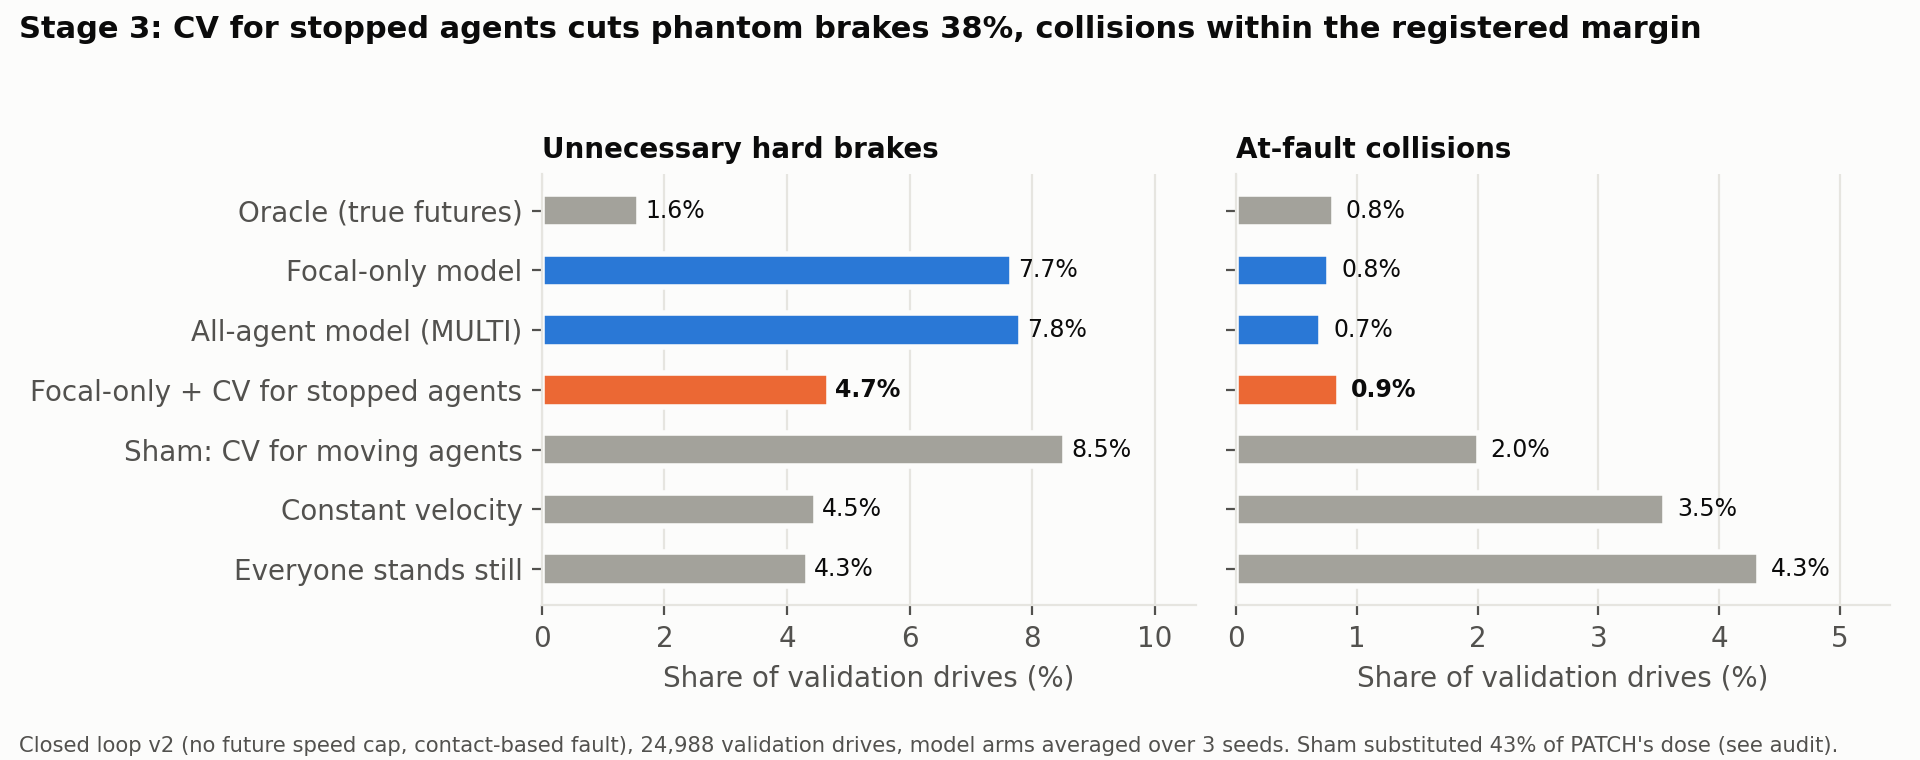
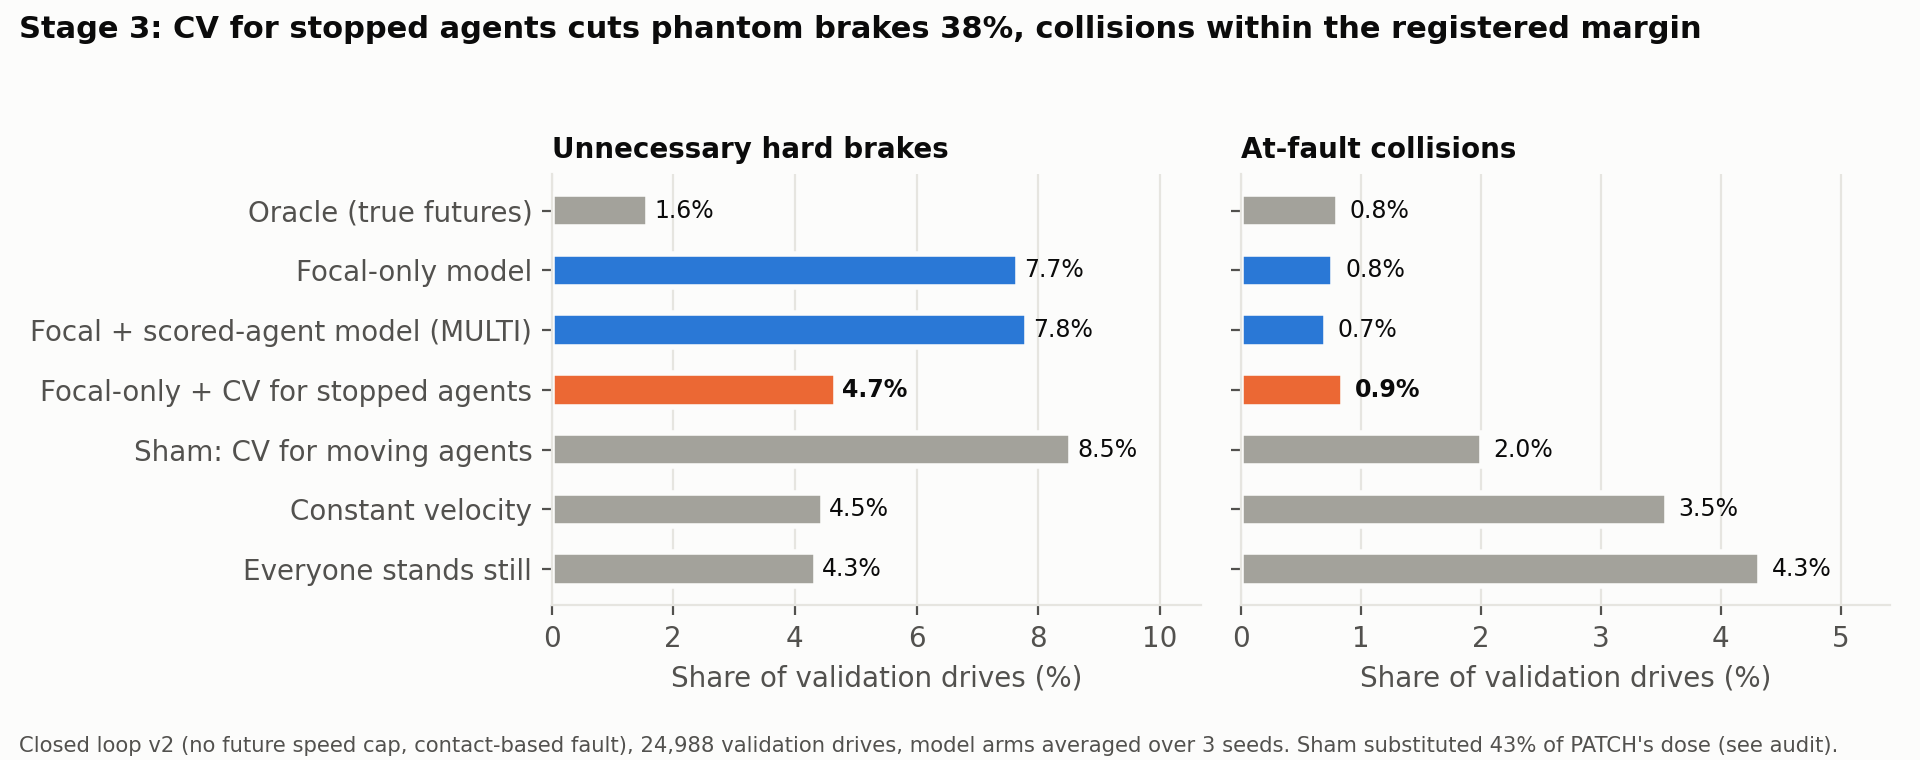
README: planner-agent comparison up front, narrower causal claims, Stage 4 status
Constant velocity beats the learned model on miss rate for planner-relevant
agents (0.281 vs 0.424) while the model has lower mean error; causal wording
narrowed; Stage 3 described as a sequential follow-up on the same validation
scenes; MULTI renamed focal + scored-agent model; AUROC claim softened;
conditional-CI limitation; Reproduce covers releases v1.0 and v1.1 and all
stages.

diff --git a/scripts/plot_results.py b/scripts/plot_results.py
@@ -222,7 +222,7 @@ def fig_stage3(stage3: str, out: str) -> None:
     import json
 
     r = json.load(open(f"{stage3}/results.json"))["closedloop"]["rates"]
-    arms = [("oracle", "Oracle (true futures)"), ("ALL", "Focal-only model"), ("MULTI", "All-agent model (MULTI)"),
+    arms = [("oracle", "Oracle (true futures)"), ("ALL", "Focal-only model"), ("MULTI", "Focal + scored-agent model (MULTI)"),
             ("PATCH", "Focal-only + CV for stopped agents"), ("SHAM", "Sham: CV for moving agents"),
             ("cv", "Constant velocity"), ("static", "Everyone stands still")]  # fmt: skip
     fig, axes = plt.subplots(1, 2, figsize=(9.6, 3.8), sharey=True)

diff --git a/README.md b/README.md
@@ -6,11 +6,13 @@
 
 A pre-registered study on the [Argoverse 2 motion forecasting dataset](https://www.argoverse.org/av2.html) (this study uses its 224,896 train and validation scenarios from six US cities; the unlabelled test split is not used), with a closed-loop planning test and a TensorRT deployment path.
 
-> **Status: complete.** 22 training runs, both stages, and the deployment gate ran as pre-registered; the post-run audit recomputed every headline number independently ([`scripts/audit_recompute.py`](scripts/audit_recompute.py)). The hypotheses, arms, and kill criteria were committed before any confirmatory model was scored on the validation split. (Throwaway smoke runs used validation data for pipeline debugging before registration; that is disclosed as deviation 1 and no design choice came from it.)
+> **Status: Stages 1 to 3 complete and audited; Stage 4 registered and running.** 22 confirmatory training runs, Stages 1, 2, 3a and 3, and the deployment gate ran as pre-registered, and every headline number is independently recomputable from the released per-row tables ([`scripts/audit_recompute.py`](scripts/audit_recompute.py), [`scripts/audit_stage3.py`](scripts/audit_stage3.py)). Each stage's hypotheses, arms, and kill criteria were committed before that stage's scoring. (Throwaway smoke runs used validation data for pipeline debugging before the Stage 1 registration; that is disclosed as deviation 1 and no design choice came from it.) [Stage 4](docs/preregistration/stage4-replication.md), an independent, dose-matched replication on 8,140 training scenes that no compared model trained on, was registered before any of its scoring; its results will be added here, whatever they show.
 
-**Answers, in one line each.** Accuracy drops in an unseen city, but only by about 5%. The model's own uncertainty still flags the predictions that fail there (with no detectable difference from how it does at home), yet it cannot tell that it is in a new city. In closed loop the extra error shows up as a small rise in planning failures (+4%, mostly extra phantom braking), below the registered +10% bar, so H4 is dead as registered.
+**Answers, in one line each.** Accuracy drops in an unseen city, but only by about 5%. The model's own uncertainty still flags the predictions that fail there (with no detectable difference from how it does at home), yet it shows no useful ability to tell that it is in a new city (mean AUROC 0.505 to 0.518; no equivalence test was run). In closed loop the extra error shows up as a small rise in planning failures (+4%, mostly extra phantom braking), below the registered +10% bar, so H4 is dead as registered.
 
-**The follow-up found the cause of the phantom braking.** The model was trained on Argoverse's *focal* agents, which are chosen for being interesting: a stopped focal agent is almost always about to move. On the parked cars around the self-driving car, it therefore predicts motion that never happens (miss rate 0.52 vs 0.09 for constant velocity), and the planner brakes for it. Giving stopped agents a constant-velocity forecast cuts unnecessary hard brakes by **38%** with collisions inside the registered margin. Retraining on all agents fixes the open-loop error but **not** the braking, because this planner still reacts to the small probability the new model leaves on moving modes.
+**On the agents the planner actually uses, the learned model misses more often than constant velocity.** Across all 304,988 planner-relevant agents (Stage 3a, one snapshot at the t=49 handoff), the all-city model's miss rate is 0.424, against 0.281 for constant velocity and 0.440 for lane following. Its mean errors are lower than constant velocity's (minFDE 2.36 vs 2.62 m, minADE 0.94 vs 1.24 m): it is closer on average but more often more than 2 m off.
+
+**The follow-ups point to stopped agents as the main source of the phantom braking.** The model was trained on Argoverse's *focal* agents, which are chosen for being interesting: a stopped focal agent is almost always about to move. On the parked cars around the self-driving car, it predicts motion that never happens (miss rate 0.52 vs 0.09 for constant velocity), and the planner brakes for it. Giving stopped agents a constant-velocity forecast cuts unnecessary hard brakes by **38%** with collisions inside the registered margin. This strongly implicates how stopped agents' forecasts enter the planner, but it does not isolate focal-selection bias as the only cause: the sham control reached only 43% of that fix's dose, and the fix changes both the forecast trajectory and its probability. Stage 3 is also a sequential follow-up on the same validation scenes, not an independent confirmation. A dose-matched replication on fresh scenes (Stage 4) is registered and in progress. Retraining on focal plus scored agents fixes the open-loop error but **not** the braking; an exploratory check suggests this planner still reacts to the small probability the new model leaves on moving modes.
 
 ![Two Palo Alto validation scenarios: the model trained with Palo Alto vs the model that never saw it](docs/figures/example_scenarios.png)
 
@@ -24,9 +26,9 @@ A pre-registered study on the [Argoverse 2 motion forecasting dataset](https://w
 | **H4** | Does the accuracy loss reach driving outcomes? | Planner failure rate (at-fault collision or unnecessary hard brake) using the unseen-city vs all-city predictor | at least +10% relative |
 | **H5** | Does the model beat a same-data map baseline on the agents the planner uses? | Miss rate vs lane following, planner-relevant agents | at least 10% lower |
 | **H6** | Is there a stopped-agent failure? | Miss rate vs constant velocity: stopped (a) and moving (b) non-focal planner agents | (a) at least +0.15 worse; (b) at least 30% better |
-| **H7** | Does training on all agents fix the phantom braking? | Unnecessary hard brakes, all-agent model vs focal-only, closed loop v2 | at least 30% fewer, collisions within +0.3 pp |
+| **H7** | Does training on focal plus scored agents fix the phantom braking? | Unnecessary hard brakes, focal + scored-agent model (MULTI) vs focal-only, closed loop v2 | at least 30% fewer, collisions within +0.3 pp |
 | **H8** | Does constant velocity for stopped agents fix it? | Same, focal-only model with CV for stopped agents | at least 30% fewer, collisions within +0.3 pp |
-| **H9** | Does the all-agent model fix the open-loop error without hurting focal agents? | Miss rate, stopped non-focal and focal agents | at least 0.15 lower; focal no worse than +0.02 |
+| **H9** | Does the focal + scored-agent model fix the open-loop error without hurting focal agents? | Miss rate, stopped non-focal and focal agents | at least 0.15 lower; focal no worse than +0.02 |
 
 Pre-registrations, including every deviation and the reason for it:
 [Stage 1](docs/preregistration/stage1-city-shift.md) (H1 to H3),
@@ -163,25 +165,37 @@ A review asked two things: how the model compares with simple baselines on the s
 | **H6a** stopped non-focal agents, model minus constant velocity | **+0.43** miss rate (0.52 vs 0.09; 4.7x to 6.5x worse in every city) | [+0.424, +0.436] | supported |
 | **H6b** moving non-focal agents, model vs constant velocity | **57% fewer misses** | [56.1%, 57.5%] | supported |
 
+**All planner-relevant agents, one snapshot at the t=49 handoff** (descriptive, all 304,988 agents; [results](reports/stage3a/results.json), `descriptive_tables`, set `planner_relevant`, stratum `arm`):
+
+| Forecast | minADE (m) | minFDE (m) | Miss rate | brier-minFDE |
+|---|---|---|---|---|
+| All-city model (ALL) | 0.94 | 2.36 | 0.424 | 2.93 |
+| Unseen-city model (LOCO) | 0.94 | 2.39 | 0.431 | 2.98 |
+| Constant velocity | 1.24 | 2.62 | 0.281 | 3.34 |
+| Lane following | 2.01 | 3.93 | 0.440 | 4.23 |
+| Everyone stands still | 6.41 | 12.44 | 0.397 | 12.44 |
+
+The learned model has lower mean errors than constant velocity but a higher miss rate on the agents the planner uses. H6 splits the non-focal agents by whether they are stopped or moving.
+
 Why: 13.1% of training focal agents are stopped at the prediction time, but only 3.5% stay within 2 m over the next 6 s. The model learned that stopped means about to move. That is right for focal agents and wrong for parked cars.
 
-**Stage 3** tested two fixes in a less privileged closed loop (no future speed cap, contact-based at-fault attribution), with 99.17% CIs across six comparisons ([results](reports/stage3/results.json)):
+**Stage 3** is a sequential follow-up on the same 24,988 validation scenes that Stage 3a had already scored. It was registered after Stage 3a's results were known, so it is not an independent confirmation. It tested two fixes in a less privileged closed loop (no future speed cap, contact-based at-fault attribution), with 99.17% CIs across six comparisons ([results](reports/stage3/results.json)):
 
 ![Stage 3 closed loop](docs/figures/stage3_closed_loop.png)
 
 | | Result | 99.17% CI | Verdict |
 |---|---|---|---|
-| **H7** all-agent model (same recipe, samples centred on all 763k fully observed agents): fewer unnecessary hard brakes | -1.1% (no reduction) | [-6.3%, +3.6%] | killed |
+| **H7** focal + scored-agent model (MULTI; same recipe, 128,000 samples drawn from 763,037 eligible fully observed focal and SCORED training tracks): fewer unnecessary hard brakes | -1.1% (no reduction) | [-6.3%, +3.6%] | killed |
 | **H8** focal-only model with CV forecasts for stopped agents: fewer unnecessary hard brakes | **38.4% fewer** | [34.1%, 42.4%] | supported |
 | H8 collision change (non-inferiority margin +0.3 pp) | +0.09 pp | [-0.03, +0.20] pp | passes |
-| **H9** all-agent model, stopped non-focal miss rate | **-0.48** | [-0.490, -0.479] | passes |
-| H9 all-agent model, focal miss rate (must be within +0.02) | +0.06 (0.288 vs 0.228) | [+0.056, +0.067] | fails, so H9 killed |
+| **H9** MULTI, stopped non-focal miss rate | **-0.48** | [-0.490, -0.479] | passes |
+| H9 MULTI, focal miss rate (must be within +0.02) | +0.06 (0.288 vs 0.228) | [+0.056, +0.067] | fails, so H9 killed |
 
 Controls: the stand-still forecast collides 5.6x as often as the model (pass); the replayed human drive has 0.35% at-fault collisions under the new rule (pass).
 
-**Honest caveat on the sham.** The dose-matched sham gives constant-velocity forecasts to randomly chosen *moving* agents. Because the planner's agent set is dominated by parked cars, it could only reach 43% of PATCH's dose ([audit](reports/stage3/audit_dose.json), deviation 3). The sham increased braking (-12.4%) and collisions (+1.2 pp), the opposite of PATCH, which supports a stopped-specific effect by direction, but it is not a matched comparison.
+**Honest caveat on the sham.** The dose-matched sham gives constant-velocity forecasts to randomly chosen *moving* agents. Because the planner's agent set is dominated by parked cars, it could only reach 43% of PATCH's dose ([audit](reports/stage3/audit_dose.json), deviation 3). The sham increased braking (-12.4%) and collisions (+1.2 pp), the opposite of PATCH, which supports a stopped-specific effect by direction, but it is not a matched comparison. PATCH also changes both the forecast trajectory and its probability. Together with H6, H8 points to how stopped agents' forecasts enter the planner, but Stage 3 does not isolate focal-selection bias as the only cause. A properly dose-matched replication on fresh scenes (Stage 4) is registered and in progress.
 
-**Exploratory, not registered** ([numbers](reports/stage3/exploratory_moving_mode_mass.json), development slice): why does retraining fix the open-loop error but not the braking? On stopped non-focal agents the focal-only model puts 95% of its probability on moving modes; the all-agent model puts 10%. But about a quarter of truly parked cars still get more than 5% probability on a moving mode, and the registered planner weights risk at 100x probability, so a 5% mode crossing its path outweighs the whole progress term. The PATCH arm sets that probability to exactly zero. Best-of-6 miss rate cannot see this: a forecast can be "right" by the benchmark and still make the planner brake.
+**Exploratory, not registered** ([numbers](reports/stage3/exploratory_moving_mode_mass.json), development slice): why does retraining fix the open-loop error but not the braking? On stopped non-focal agents the focal-only model puts 95% of its probability on moving modes; the focal + scored-agent model (MULTI) puts 10%. But about a quarter of truly parked cars still get more than 5% probability on a moving mode, and the registered planner weights risk at 100x probability, so a 5% mode crossing its path outweighs the whole progress term. The PATCH arm sets that probability to exactly zero. Best-of-6 miss rate cannot see this: a forecast can be "right" by the benchmark and still make the planner brake.
 
 ## What broke along the way
 
@@ -201,14 +215,29 @@ Every one of these was found by a diagnostic before any change was made, and eac
 
 ## Limitations
 
-- **Stage 1 and Stage 2 score different forecasts.** Stage 1 measures the focal agent; the planner consumes forecasts of up to 16 surrounding agents at six replan times, whose accuracy is not separately reported.
+- **Stage 1 and Stage 2 score different forecasts.** Stage 1 measures the focal agent; the planner consumes forecasts of up to 16 surrounding agents at six replan times. Stage 3a scores those agents at one handoff snapshot (t=49) only, not at every replan, so the accuracy of the forecasts at later replans (with the simulated car) is not reported.
 - **At-fault attribution is centre-based:** a collision counts when the other agent's centre is ahead of the ego's centre, which can miss some side-swipes with long vehicles.
 - **Stage 2 agents do not react to the simulated car.** The planner is longitudinal only and has no traffic-light or stop-sign awareness, so it drives about 1.5 to 1.7x the human's distance. There is no perception noise, and the window is 6 s. These limits apply equally to every arm, which is what the comparison needs, but they bound what the absolute failure rates mean.
+- **Confidence intervals are conditional on these six cities and these trained checkpoints.** The bootstrap resamples scenarios, so it does not capture the variance from drawing new cities or from retraining the models.
 - **One dataset, six US cities.** No left-hand traffic and no weather split.
 - **The model is small.** City effects could differ at leaderboard scale.
 - **Before registration, throwaway smoke runs used the validation split as training data** to debug the pipeline. No design choice was made from their scores; this is disclosed as deviation 1.
 
 ## Reproduce
+
+**Check the published numbers without retraining.** The row-level tables are attached to GitHub releases. They are derived from Argoverse 2 and carry its CC BY-NC-SA 4.0 license, not the code's MIT license. Each audit script is an independent plain pandas/numpy recomputation that imports nothing from `cityshift`.
+
+```bash
+pip install -e ".[dev]"
+# Stage 1 and 2 (H1 to H4, positive controls): per-scenario tables, release v1.0
+gh release download v1.0 -R yusufdxb/av2-city-shift -p per-scenario-results.tar.gz && tar xzf per-scenario-results.tar.gz
+python scripts/audit_recompute.py evals
+# Stage 3a and 3 (H5 to H9, closed-loop controls): per-agent and per-scenario tables, release v1.1
+gh release download v1.1 -R yusufdxb/av2-city-shift -p stage3-per-row-results.tar.gz && tar xzf stage3-per-row-results.tar.gz
+python scripts/audit_stage3.py      # verifies reports/stage3/SHA256SUMS, exits non-zero on any mismatch > 1e-9
+```
+
+**Full rerun.**
 
 ```bash
 pip install -e ".[dev,deploy,figures]"   # plus s5cmd (https://github.com/peak/s5cmd) for the download
@@ -218,15 +247,23 @@ s5cmd --no-sign-request cp "s3://argoverse/datasets/av2/motion-forecasting/val/*
 python -m cityshift.preprocess --raw data/raw --out data/pp --split train
 python -m cityshift.preprocess --raw data/raw --out data/pp --split val
 
-ROOT=data/pp scripts/run_confirmatory.sh 128000     # 22 training runs
+ROOT=data/pp scripts/run_confirmatory.sh 128000     # 22 training runs; exits non-zero if any run failed
 ROOT=data/pp scripts/evaluate_all.sh                # Stage 1 scoring + analysis
 RAW=data/raw/val scripts/run_stage2.sh              # Stage 2 closed loop + analysis
+# Stage 3a: every validation agent, baselines + ALL + LOCO checkpoints, then the H5/H6 analysis
+PYTHONPATH=src python -m cityshift.multiagent_eval --root data/pp --raw data/raw/val --split val \
+  --baseline CV LANE STATIC \
+  $(for s in 0 1 2; do echo --checkpoint ALL_s$s=runs/ALL/seed$s/model.pt; \
+    for c in austin dearborn miami palo-alto pittsburgh washington-dc; do \
+      echo --checkpoint LOCO-${c}_s$s=runs/LOCO-$c/seed$s/model.pt; done; done) \
+  --out evals/stage3a/per_agent.parquet
+PYTHONPATH=src python -m cityshift.analysis_stage3a --parquet evals/stage3a/per_agent.parquet --out evals/stage3a/results.json
+scripts/run_stage3.sh data/raw/train data/raw/val data/pp data/pp_multi   # Stage 3: MULTI training, H7 to H9
+scripts/run_stage4.sh data/raw/train data/pp data/pp_multi                # Stage 4: MIX training, H10 to H13
 python -m cityshift.export_trt --root data/pp --ckpt runs/ALL/seed0/model.pt --out evals/deploy
-# check the published numbers without retraining: per-scenario tables from release v1.0
-gh release download v1.0 -R yusufdxb/av2-city-shift -p per-scenario-results.tar.gz && tar xzf per-scenario-results.tar.gz
-python scripts/audit_recompute.py evals             # independent recomputation of the headline numbers
+python scripts/bench_serving.py --help                                  # serving-path benchmark (see reports/serving)
 python scripts/plot_results.py --root data/pp        # the figures in docs/figures
-pytest -q                                           # 19 tests; 40 more are generated when raw data is present
+pytest -q   # the 40 scene-builder checks are generated only when the raw training data is present
 ```
 
 | Path | What it is |
@@ -237,7 +274,7 @@ pytest -q                                           # 19 tests; 40 more are gene
 | `src/cityshift/evaluate.py`, `analysis.py` | Stage 1 scoring, uncertainty signals, pre-registered statistics |
 | `src/cityshift/closedloop.py`, `analysis_stage2.py` | Stage 2 harness and statistics |
 | `src/cityshift/export_trt.py` | ONNX and TensorRT export with the parity gate |
-| `docs/preregistration/` | both registrations and their deviation logs |
+| `docs/preregistration/` | the five registrations (Stages 1, 2, 3a, 3, 4) and their deviation logs |
 
 ## Data and license
 
